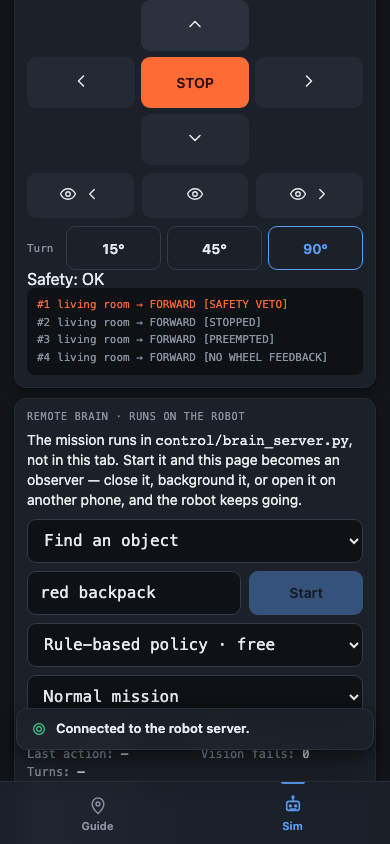
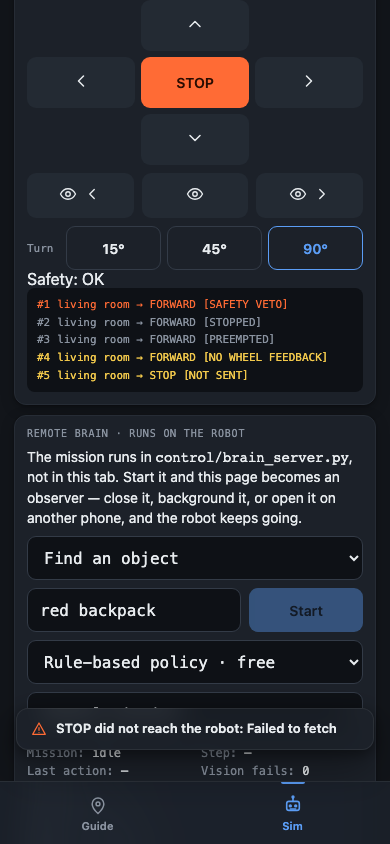
3.86 review round 4: three refusal kinds -- a lost STOP and faults keep a colour; one timer clears the flash
Claude-Session: https://claude.ai/code/session_01DsAbzw35tyepWUC5RcFsP5

diff --git a/web-twin/app.js b/web-twin/app.js
@@ -134,7 +134,6 @@
     sightings: [], found: false, foundSighting: null,
     log: [], step: 0,
     safetyFlashUntil: 0,
-    safetyFlashLoop: false,
     guidanceMode: "guide", // "guide" -> /guidance (steer a person); "robot" -> /navigate (what would the robot do)
     guidanceRunning: false, guidanceStarting: false, guidanceTimerId: null, guidanceTarget: null,
     guidanceInFlight: 0, guidanceSeq: 0, guidanceLastRenderedSeq: 0,
@@ -1002,11 +1001,13 @@
   async function commitAction(action, driver, extra) {
     const resp = await sendAction(action, driver, extra);
     const executed = resp.executed !== false;
-    if (!executed && isSafetyVeto(resp.reason)) {
+    if (!executed && refusalKind(resp.reason) === "veto") {
       state.safetyFlashUntil = Date.now() + 350;
       // 3.86: drawn now, not when the next frame lands -- over the tunnel a
-      // frame can take longer than the flash, and a veto then never showed.
+      // frame can take longer than the flash, and a veto then never showed --
+      // and cleared by one timer when it ends.
       renderTelemetry(state.lastFrame);
+      setTimeout(function () { renderTelemetry(state.lastFrame); }, 360);
     }
     // Phase M4: the reason is what a person can act on. "SAFETY VETO" was
     // the only thing this ever said, so a move refused because someone
@@ -1058,6 +1059,17 @@
   // server too old to name its refusals) -- not a preemption, a Stop or a fault.
   function isSafetyVeto(reason) {
     return !reason || reason === "safety_distance";
+  }
+
+  // 3.86: how a refusal is coloured. "veto" (the alarm colour) for a safety
+  // veto; "calm" (no colour) for a Stop or someone else driving -- nothing is
+  // wrong; "fault" (the warning colour) for everything else: a fault of the
+  // robot, a press that never reached it or was answered an error (a lost
+  // STOP must stand out, 3.76 D), the watchdog, a reason the twin does not know.
+  const CALM_REFUSALS = { stopped: true, person_stop: true, preempted: true };
+  function refusalKind(reason) {
+    if (isSafetyVeto(reason)) return "veto";
+    return Object.prototype.hasOwnProperty.call(CALM_REFUSALS, reason) ? "calm" : "fault";
   }
 
   function refusalText(resp) {
@@ -1474,15 +1486,7 @@
     safetyEl.innerHTML = vetoedRecently
       ? 'Safety: <span class="alert">VETOED</span>'
       : 'Safety: <span class="safe">OK</span>';
-    // One redraw loop at a time while the flash lasts (3.86: a veto also
-    // draws it at once, before the frame's own render).
-    if (vetoedRecently && !state.safetyFlashLoop) {
-      state.safetyFlashLoop = true;
-      requestAnimationFrame(function () {
-        state.safetyFlashLoop = false;
-        renderTelemetry(state.lastFrame);
-      });
-    }
+    // Cleared by the timer commitAction sets when the flash begins (3.86).
 
     const rooms = Array.from(state.searchedRooms).sort();
     let summary = rooms.length ? rooms.join(", ") + " searched." : "No rooms searched yet.";
@@ -1494,9 +1498,10 @@
     clearEmptyState(el);
     const entry = state.log[state.log.length - 1];
     const div = document.createElement("div");
-    // 3.86: the veto colour for a safety veto only; a Stop, a preemption or
-    // a fault is a refusal, not a veto.
-    div.className = "entry" + (entry.executed === false && isSafetyVeto(entry.reason) ? " veto" : "");
+    // 3.86: coloured by kind (refusalKind): the veto colour for a safety veto
+    // only, the warning colour for a fault or a failed press, none for a Stop.
+    const kind = entry.executed === false ? refusalKind(entry.reason) : "calm";
+    div.className = "entry" + (kind === "calm" ? "" : " " + kind);
     // Phase M4: name the refusal rather than stamping every one of them
     // VETOED. The reason was already being carried here and thrown away,
     // so a preemption and a wall produced identical lines -- which is the
@@ -2228,7 +2233,7 @@
     setBrainText("brain-tel-refusal",
       label + " \u00b7 " + (refusal.driver || "no driver") + " \u00b7 " +
       refusal.seconds_ago.toFixed(1) + "s ago",
-      isSafetyVeto(refusal.reason) ? "alert" : null);     // 3.86: only a veto alarms
+      { veto: "alert", fault: "warn", calm: null }[refusalKind(refusal.reason)]);   // 3.86
   }
 
   // ---------- brain liveness: reconnect on its own ----------

diff --git a/web-twin/index.html b/web-twin/index.html
@@ -211,6 +211,8 @@
     background: var(--field-bg); border-radius: 8px; padding: 8px 10px;
   }
   #log .entry.veto, #brain-log .entry.veto { color: var(--accent-alert); }
+  /* 3.86: a refusal that is a fault or a press that failed -- not a veto, not calm */
+  #log .entry.fault, #brain-log .entry.fault { color: var(--accent-warn); }
   #log .entry.found, #brain-log .entry.found { color: var(--accent-safe); }
 
   /* Matches .text-input, for the failsafe-drill picker. */

diff --git a/tests/test_ui.py b/tests/test_ui.py
@@ -1348,8 +1348,9 @@ def test_a_press_a_stop_overtook_reads_as_stopped_not_a_veto(browser, twin_serve
     log = page.locator("#log")
     sync_api.expect(log).to_contain_text("[STOPPED]", timeout=5000)
     assert not _flashed(page), "the Safety line flashed VETOED for a Stop"
-    assert "veto" not in (log.locator(".entry").last.get_attribute("class") or ""), \
-        "a Stop's log line in the veto colour"
+    line_class = log.locator(".entry", has_text="[STOPPED]").get_attribute("class") or ""
+    assert "veto" not in line_class and "fault" not in line_class, \
+        f"a Stop's log line coloured as a veto or fault: {line_class}"
     text = log.inner_text()
     assert "VETOED" not in text and "SAFETY VETO" not in text, text
     assert not errors, errors
@@ -1381,6 +1382,63 @@ def test_a_safety_veto_still_flashes_vetoed(browser, twin_server):
         "executed": False, "reason": "safety_distance", "detail": "Blocked FORWARD: 12 cm"})
     sync_api.expect(page.locator("#log")).to_contain_text("SAFETY VETO", timeout=5000)
     page.wait_for_function("() => window.__vetoed", timeout=2000)   # fails: no flash
+    line = page.locator("#log .entry", has_text="SAFETY VETO")
+    assert "veto" in (line.get_attribute("class") or ""), "a safety veto lost the veto colour"
+    assert not errors, errors
+    page.close()
+
+
+@pytest.mark.parametrize("reason", ["no_feedback", "ros_unavailable", "a_reason_from_later"])
+def test_a_fault_refusal_takes_the_warning_colour(browser, twin_server, reason):
+    """3.86 review round 4: making non-vetoes plain also made faults plain;
+    a fault (or a reason the twin does not know) takes the warning colour."""
+    page, errors = _press_answered(browser, twin_server, {
+        "executed": False, "reason": reason, "detail": "detail"})
+    line = page.locator("#log .entry").last
+    sync_api.expect(line).to_have_class(re.compile(r"\bfault\b"), timeout=5000)
+    assert not errors, errors
+    page.close()
+
+
+def test_a_stop_that_never_reached_the_robot_stands_out(browser, twin_server):
+    """3.86 review round 4: a STOP the robot never got (NOT SENT, 3.76 D)
+    lost its colour when only a veto was coloured."""
+    page, errors = open_twin(browser, twin_server)
+    page.click("#btn-settings")
+    page.fill("#cfg-server-url", twin_server)
+    page.click("#btn-connect")
+    page.click('.tab-btn[data-tab="sim"]')
+    page.route("**/stop", lambda route: route.abort())
+    page.click("#btn-stop")
+    line = page.locator("#log .entry", has_text="NOT SENT")
+    sync_api.expect(line).to_have_class(re.compile(r"\bfault\b"), timeout=5000)
+    page.close()
+
+
+@pytest.mark.parametrize("reason,cls", [("safety_distance", "alert"), ("no_feedback", "warn"),
+                                        ("person_stop", None)])
+def test_the_refusal_readout_colours_by_kind(browser, twin_server, reason, cls):
+    page, errors = open_twin(browser, twin_server)
+
+    def health(route):
+        route.fulfill(status=200, content_type="application/json", body=_json({
+            "status": "ok", "seconds_since_last_command": 0.1,
+            "watchdog_timeout_s": 1.0, "min_distance_cm": 20, "mode": "sim",
+            "env_label": "", "driver": "twin-dpad", "authority_holder": None,
+            "last_refusal": {"reason": reason, "detail": "d", "driver": "brain",
+                             "at": 1.0, "seconds_ago": 1.0},
+        }))
+
+    page.route("**/health", health)
+    page.click("#btn-settings")
+    page.fill("#cfg-server-url", twin_server)
+    page.click("#btn-connect")
+    page.click('.tab-btn[data-tab="sim"]')
+    readout = page.locator("#brain-tel-refusal")
+    sync_api.expect(readout).to_contain_text("brain", timeout=5000)
+    classes = (readout.get_attribute("class") or "").split()
+    for other in ("alert", "warn"):
+        assert (other in classes) == (other == cls), (reason, classes)
     assert not errors, errors
     page.close()
 

diff --git a/docs/engineering/twin/ENGINEERING.md b/docs/engineering/twin/ENGINEERING.md
@@ -57,7 +57,7 @@ for hosts matching `NGROK_HOST`):
 | `GET /world/map`, `GET /world/pose`, `GET /world/error` | the map | Tri-state cells at the server's size. Under SLAM, the truth is drawn as a ghost and the errors are printed. |
 | `POST /sim/house/random`, `GET /health` `sim_map` | "Random house" under the map, and `house:` beside it | 3.72. Off until connected, while a brain mission runs, and while a swap is in flight. After a swap the page fetches a frame at once -- the map, depth and camera are re-read only with a frame -- so it draws the new house without anyone driving. |
 | `GET /world/goal`, `POST /world/goal` | tap-to-goal | `{x_m, y_m}` in the house frame; only when the map is SLAM's; `accepted: false` shows the reason. `onMapTap()` sends it with `x-driver: twin-dpad` (handoff 3b, 2026-10-05), so `world_goal_set()` arbitrates the tap as a person: during a mission it is accepted and the brain's next command is refused `preempted`. `tests/test_ui.py` pins the header. |
-| `GET /health` | watchdog readout, driver and last refusal, `min_distance_cm`, Drive via brain pre-flight (`mode` must be `teleop`) | polled every `WATCHDOG_POLL_MS`. A refusal's reason is named by `refusalLabel()`: `REFUSAL_LABEL` (`safety_distance` SAFETY VETO, `preempted`, `unreachable` NOT SENT, `rejected`, `watchdog`; since 3.86 `stopped` STOPPED, `person_stop` STOPPED BY A PERSON, `no_feedback` NO WHEEL FEEDBACK, `ros_unavailable` ROS DOWN), an unknown reason by its own name in words (underscores as spaces, upper-cased), and VETOED only when no reason came (an old server). A D-pad press the robot server answers refused flashes the Safety line's VETOED only when `isSafetyVeto()`: `safety_distance` or no reason, drawn at once (`renderTelemetry()`, one redraw loop at a time), not when the next frame lands, and only such a refusal's log line takes the veto colour and the brain refusal readout the alert class; a press that failed in `manualAction()`'s catch (NOT SENT: never reached the server; REJECTED: the server answered an HTTP error) never flashes |
+| `GET /health` | watchdog readout, driver and last refusal, `min_distance_cm`, Drive via brain pre-flight (`mode` must be `teleop`) | polled every `WATCHDOG_POLL_MS`. A refusal's reason is named by `refusalLabel()`: `REFUSAL_LABEL` (`safety_distance` SAFETY VETO, `preempted`, `unreachable` NOT SENT, `rejected`, `watchdog`; since 3.86 `stopped` STOPPED, `person_stop` STOPPED BY A PERSON, `no_feedback` NO WHEEL FEEDBACK, `ros_unavailable` ROS DOWN), an unknown reason by its own name in words (underscores as spaces, upper-cased), and VETOED only when no reason came (an old server). A D-pad press the robot server answers refused flashes the Safety line's VETOED only when `isSafetyVeto()`: `safety_distance` or no reason, drawn at once (`renderTelemetry()`) and cleared by one timer, not when the next frame lands. Colour by `refusalKind()`: `veto` (a safety veto: the log's `veto` class, the readout's `alert`), `calm` (`stopped`, `person_stop`, `preempted`: no colour), `fault` (everything else -- `no_feedback`, `ros_unavailable`, `watchdog`, NOT SENT, REJECTED, an unknown reason: the log's `fault` class in the warning colour, the readout's `warn`); a press that failed in `manualAction()`'s catch (NOT SENT: never reached the server; REJECTED: the server answered an HTTP error) never flashes |
 | `POST /teleop/frame` | Drive via brain | `{image_base64, media_type}`, one push per Guide tick; also primed once before `/mission/start` |
 
 **Calls to the brain** (`state.brainUrl`; the brain's own secret via

diff --git a/docs/plans/ros-alignment/3.86-twin-stop-labels.md b/docs/plans/ros-alignment/3.86-twin-stop-labels.md
@@ -76,3 +76,18 @@ own name, never VETOED.
 | 6 | No screenshot of rounds 1-2's labels | **taken**: `evaluations/twin-stop-labels-386/refusals-390px.png` (SAFETY VETO red; STOPPED, PREEMPTED, NO WHEEL FEEDBACK plain) |
 
 `tests/test_ui.py` whole module in order: 154/154.
+
+## Review round 4 (2026-10-16): `/code-review` (high) on `dc40dfd`
+
+| # | Finding | Verdict |
+|---|---|---|
+| 1 | Colouring only a veto took the colour off a STOP that never reached the robot (NOT SENT, 3.76 D's "a lost STOP said nothing") | **fixed**: three kinds -- veto (alarm), fault (warning: faults, NOT SENT, REJECTED, watchdog, unknown), calm (Stop, person's Stop, preemption); red on `dc40dfd` |
+| 2 | Faults went uncoloured in the brain refusal readout | **fixed**: `warn` |
+| 3, 7 | No positive-direction test; the Stop test read the last line, not the `[STOPPED]` one | **fixed** |
+| 4, 8 | A 60 Hz redraw loop (and its flag) to clear a 350 ms flash, untested | **fixed**: one timer, no loop |
+| 5 | The twin's own list of vetoes | round 3 #3, recorded |
+| 6 | The veto rule written twice | **fixed**: `refusalKind()` everywhere |
+
+Screenshot replaced (`refusals-390px.png`: SAFETY VETO red, STOPPED and
+PREEMPTED plain, NO WHEEL FEEDBACK and a lost STOP amber). `tests/test_ui.py`
+161/161 in order.
